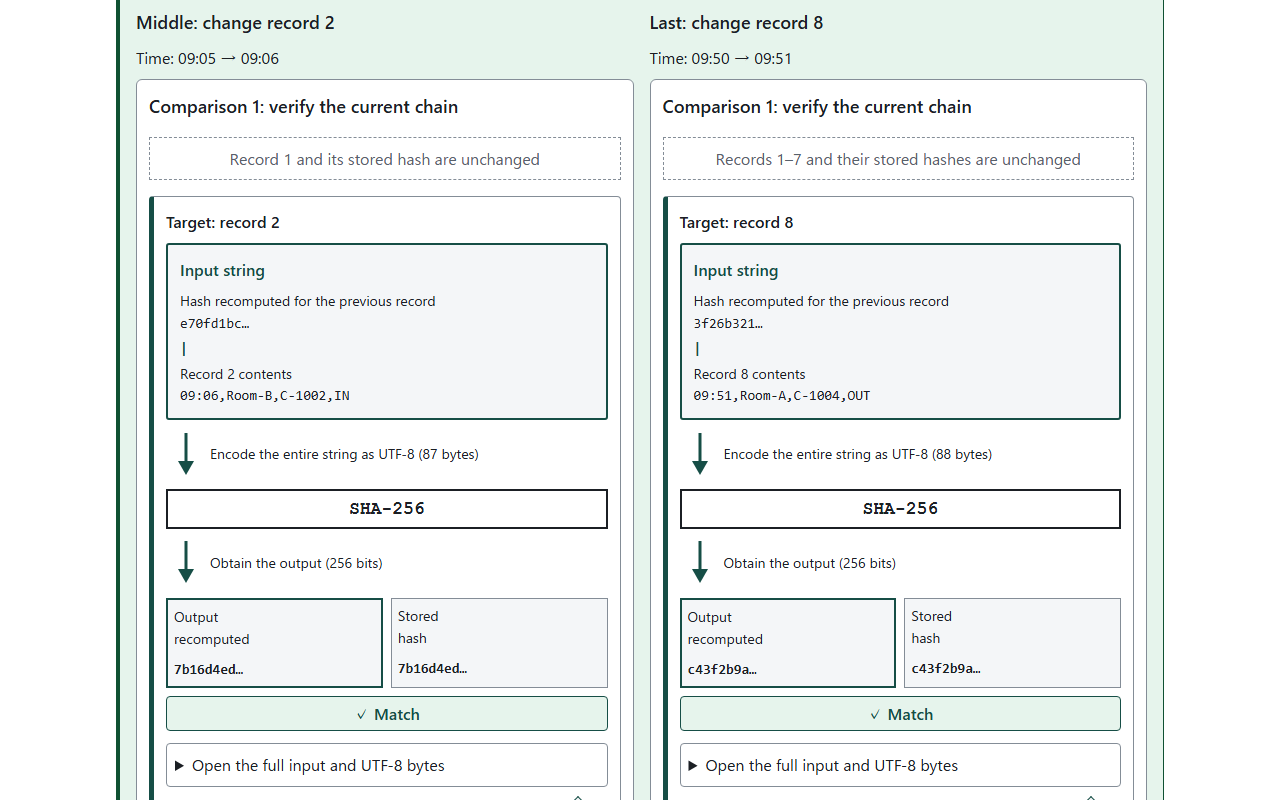
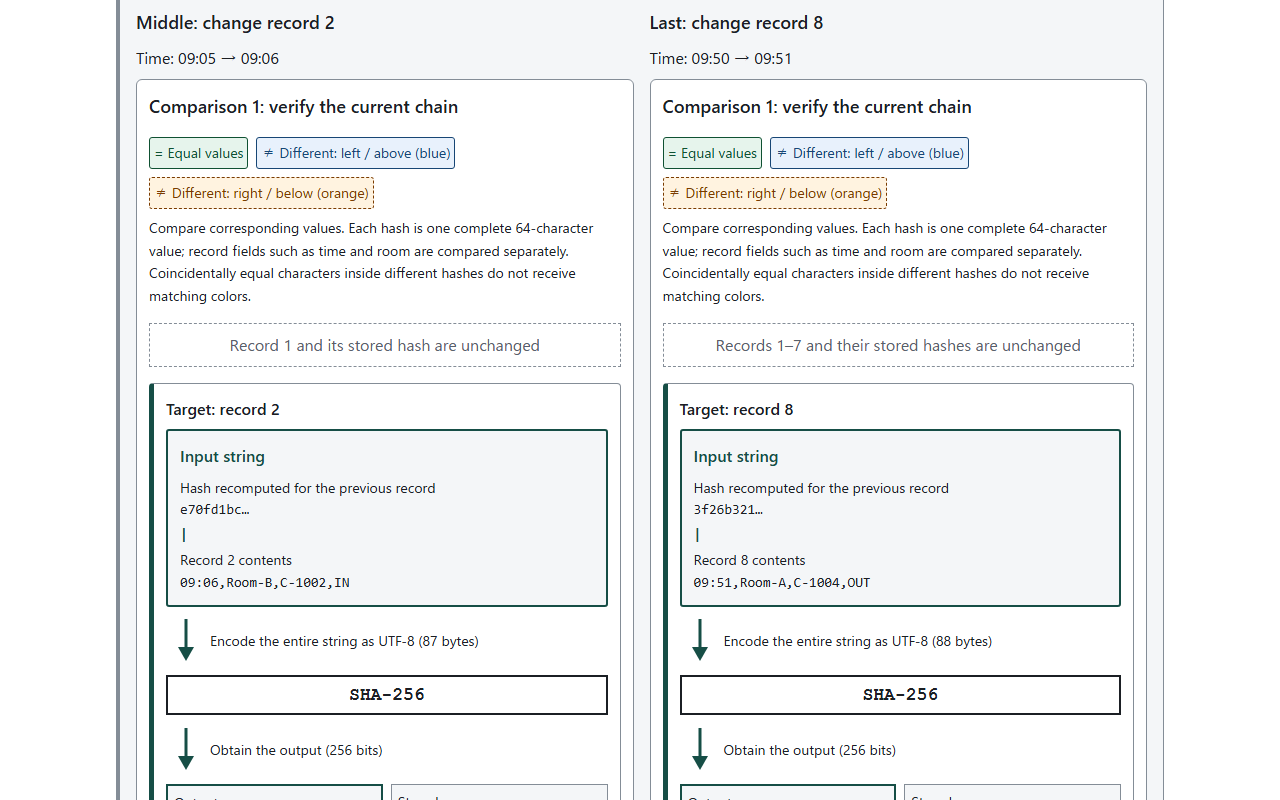
チェーン比較を値単位で色分けして対応を明示

diff --git a/app.js b/app.js
@@ -187,8 +187,10 @@
       }
       summary.append(fields, heads);
       details.append(summary, node('p', t(verification ? 'clarity.verificationInput' : 'input')), node('code', input, 'hash-input'));
-      if (verification) details.append(node('p', t('expected')), node('code', verification.expected, 'hash verification-hash'));
-      details.append(node('p', t('fullHash')), node('code', row.hash, 'hash stored-hash'));
+      if (verification) details.append(node('p', t('expected')), comparisonTone(node('code', verification.expected, 'hash verification-hash'), verification.expected, row.hash, 'first'));
+      const stored = node('code', row.hash, 'hash stored-hash');
+      if (verification) comparisonTone(stored, row.hash, verification.expected, 'second');
+      details.append(node('p', t('fullHash')), stored);
       li.append(details);
       list.append(li);
     });
@@ -549,6 +551,7 @@
       code.title = hash;
       code.dataset.hash = hash;
       cell.dataset.side = key;
+      comparisonTone(code, hash, key === 'stored' ? rightHash : leftHash, pair.childElementCount === 0 ? 'first' : 'second');
       cell.append(node('span', label), code);
       pair.append(cell);
     }
@@ -639,6 +642,7 @@
         node('p', t('position.time', {before:base.rows[index].fields[0], after:chain.rows[index].fields[0]}), 'position-time'));
       const figure = visualFigure('position.internal');
       figure.classList.add('position-flow');
+      figure.append(comparisonLegend());
       figure.append(node('p', t(last ? 'position.unchangedLast' : 'position.unchangedMiddle'), 'position-unchanged'),
         positionRecord(result.rows[index], chain.rows[index].fields, true));
       if (!last) {
@@ -665,12 +669,14 @@
         node('p', t('position.snapshotNote.' + position.stage)));
       const details = disclosure('position-detail-' + index, 'position.details', visualChainComparison(result, 'free'));
       const trailerDetails = node('div', undefined, 'position-trailer-detail');
+      const oldInput = core.trailerInput(base.rows[7].hash, 8);
+      const newInput = core.trailerInput(all.rows[7].expected, 8);
       trailerDetails.append(node('p', t('position.originalTrailerInput')),
-        node('code', core.trailerInput(base.rows[7].hash, 8), 'hash-input'),
+        comparisonInput(oldInput, newInput, 'first'),
         node('p', t('position.currentTrailerInput')),
-        node('code', core.trailerInput(all.rows[7].expected, 8), 'hash-input'),
-        visualCard(t('position.originalTrailer'), visualHash(all.trailer.actual)),
-        visualCard(t('position.recomputedTrailer'), visualHash(all.trailer.expected)),
+        comparisonInput(newInput, oldInput, 'second'),
+        comparisonTone(visualCard(t('position.originalTrailer'), visualHash(all.trailer.actual)), all.trailer.actual, all.trailer.expected, 'first'),
+        comparisonTone(visualCard(t('position.recomputedTrailer'), visualHash(all.trailer.expected)), all.trailer.expected, all.trailer.actual, 'second'),
         node('p', t(position.hasTrailer ? 'position.trailerUsed' : 'position.trailerNotUsed')));
       details.append(visualCard(t('position.originalHash'), visualHash(base.rows[index].hash)), trailerDetails);
       block.append(figure, snapshot, details);
@@ -1150,6 +1156,38 @@
     return card;
   }
 
+  // Compare complete values, never coincidentally equal characters within different hashes.
+  function comparisonTone(element, value, other, side) {
+    const tone = value === other ? 'same' : side;
+    element.classList.add('compare-value', 'compare-' + tone);
+    element.dataset.compareValue = value;
+    element.dataset.compareOther = other;
+    element.dataset.compareTone = tone;
+    return element;
+  }
+
+  function comparisonLegend() {
+    const legend = node('div', undefined, 'comparison-legend');
+    const keys = node('div', undefined, 'comparison-color-keys');
+    for (const tone of ['same', 'first', 'second']) keys.append(node('span', t('compare.color.' + tone), 'compare-value compare-' + tone));
+    legend.append(keys, node('p', t('compare.color.note')));
+    return legend;
+  }
+
+  function comparisonInput(input, other, side) {
+    const code = node('code', undefined, 'hash-input comparison-input');
+    const split = input.indexOf('|');
+    const otherSplit = other.indexOf('|');
+    code.append(comparisonTone(node('span', input.slice(0, split)), input.slice(0, split), other.slice(0, otherSplit), side), '|');
+    const fields = input.slice(split + 1).split(',');
+    const peers = other.slice(otherSplit + 1).split(',');
+    fields.forEach((field, i) => {
+      if (i) code.append(',');
+      code.append(comparisonTone(node('span', field), field, peers[i], side));
+    });
+    return code;
+  }
+
   function visualHash(hash) {
     const code = node('code', undefined, 'visual-hash');
     for (let i = 0; i < hash.length; i += 8) {
@@ -1210,6 +1248,7 @@
       for (const [cell, label, hash] of [[stored, 'compare.stored', row.actual], [recalculated, 'compare.recalculated', row.expected]]) {
         const value = node('code', shortHash(hash), 'comparison-hash');
         value.title = hash;
+        comparisonTone(cell, hash, cell === stored ? row.expected : row.actual, cell === stored ? 'first' : 'second');
         cell.append(node('span', t(label), 'comparison-cell-label'), value);
       }
       const status = node('div', undefined, 'comparison-status');
@@ -1219,13 +1258,13 @@
       const full = node('details', undefined, 'comparison-full');
       full.append(node('summary', t('compare.full', {n:row.number})));
       const pair = node('div', undefined, 'visual-grid');
-      pair.append(visualCard(t('compare.stored'), visualHash(row.actual)),
-        visualCard(t('compare.recalculated'), visualHash(row.expected)));
+      pair.append(comparisonTone(visualCard(t('compare.stored'), visualHash(row.actual)), row.actual, row.expected, 'first'),
+        comparisonTone(visualCard(t('compare.recalculated'), visualHash(row.expected)), row.expected, row.actual, 'second'));
       full.append(node('p', t('clarity.verificationInput')), node('code', row.input, 'hash-input'), pair);
       li.append(stored, status, recalculated, full);
       list.append(li);
     }
-    block.append(headings, list, node('p', t('compare.display'), 'muted'));
+    block.append(comparisonLegend(), headings, list, node('p', t('compare.display'), 'muted'));
     return block;
   }
 
@@ -1263,33 +1302,43 @@
       card.dataset.path = name;
       const prefix = node('code', shortHash(previous), 'propagation-prefix'); prefix.title = previous;
       const output = node('code', shortHash(hash), 'propagation-output'); output.title = hash;
+      const first = name === 'original';
+      const side = first ? 'first' : 'second';
+      const otherPrevious = first ? guide.results[2].rows[1].expected : guide.base.rows[1].hash;
+      const otherHash = first ? guide.results[2].rows[2].expected : guide.base.rows[2].hash;
+      comparisonTone(prefix, previous, otherPrevious, side);
+      comparisonTone(output, hash, otherHash, side);
+      const fields = guide.base.rows[2].fields.join(',');
+      const record = comparisonTone(node('code', fields, 'propagation-fields'), fields, fields, side);
       card.append(node('h4', t('clarity.' + name)), node('p', t('clarity.prefix')), prefix,
-        node('p', t('clarity.sameRecord')), node('code', guide.base.rows[2].fields.join(','), 'propagation-fields'),
+        node('p', t('clarity.sameRecord')), record,
         node('p', t('clarity.output3')), output);
       const input = core.hashInput(previous, guide.base.rows[2].fields);
       const full = node('details');
-      full.append(node('summary', t('visual.exact')), node('code', input, 'hash-input'));
+      full.append(node('summary', t('visual.exact')), comparisonInput(input, core.hashInput(otherPrevious, guide.base.rows[2].fields), side));
       card.append(full); grid.append(card);
     }
-    figure.append(grid, node('p', t('clarity.propagationNote'), 'visual-conclusion'));
+    figure.append(comparisonLegend(), grid, node('p', t('clarity.propagationNote'), 'visual-conclusion'));
     return figure;
   }
 
   function trailerComparison() {
     const pair = node('div', undefined, 'visual-grid trailer-comparison');
     const result = guide.results[5][1];
-    for (const [key, input, hash] of [
+    const variants = [
       ['clarity.trailerOriginal', core.trailerInput(core.tip(guide.base), guide.base.rows.length), result.trailer.actual],
       ['clarity.trailerCut', core.trailerInput(result.rows[result.rows.length - 1].expected, result.rows.length), result.trailer.expected]
-    ]) {
+    ];
+    for (const [i, [key, input, hash]] of variants.entries()) {
       const card = node('div', undefined, 'visual-card');
-      const value = node('code', undefined, 'hash-input');
-      const split = input.lastIndexOf('|');
-      value.append(input.slice(0, split), node('wbr'), node('strong', input.slice(split), 'observation-token'));
+      const side = i === 0 ? 'first' : 'second';
+      const peer = variants[1 - i];
+      const value = comparisonInput(input, peer[1], side);
       card.append(node('h4', t(key)), node('p', t('clarity.trailerInput')), value,
-        node('p', t('clarity.trailerHash')), visualHash(hash));
+        node('p', t('clarity.trailerHash')), comparisonTone(visualHash(hash), hash, peer[2], side));
       pair.append(card);
     }
+    pair.prepend(comparisonLegend());
     return pair;
   }
 
@@ -1334,8 +1383,11 @@
       const before = samples[0].rows[1];
       const after = guide.modified ? guide.modified.rows[1].fields : before.map((value, i) => i ? value : '09:06');
       const pair = node('div', undefined, 'visual-grid');
-      pair.append(visualCard(t('visual.recordBefore'), core.hashInput(guide.firstHash, before)),
-        visualCard(t('visual.recordAfter'), core.hashInput(guide.firstHash, after), t('visual.changeTime')));
+      const beforeInput = core.hashInput(guide.firstHash, before);
+      const afterInput = core.hashInput(guide.firstHash, after);
+      pair.append(visualCard(t('visual.recordBefore'), comparisonInput(beforeInput, afterInput, 'first')),
+        visualCard(t('visual.recordAfter'), comparisonInput(afterInput, beforeInput, 'second'), t('visual.changeTime')));
+      pair.prepend(comparisonLegend());
       figure.append(disclosure('guide-input-pair-' + step, 'clarity.inputs', pair));
       const result = guide.results[step];
       if (!result) {
@@ -1585,12 +1637,11 @@
         const after = guide.results[2].rows[1].expected;
         for (const [label,hash] of [[t('guide.before'),before],[t('guide.after'),after]]) {
           const block = node('div');
-          const code = node('code',undefined,'avalanche');
-          Array.from(hash).forEach((digit,i) => code.append(node('span',digit,before[i] !== after[i] ? 'changed-digit' : '')));
+          const code = comparisonTone(visualHash(hash), hash, hash === before ? after : before, comparison.childElementCount === 0 ? 'first' : 'second');
           block.append(node('p',label), code);
           comparison.append(block);
         }
-        output.append(comparison,node('p', t('guide.changedDigits', {n:Array.from(before).filter((digit,i) => digit !== after[i]).length})));
+        output.append(comparisonLegend(),comparison,node('p', t('guide.changedDigits', {n:Array.from(before).filter((digit,i) => digit !== after[i]).length})));
       }
       const rows = node('div');
       renderChain(rows, step === 2 ? guide.modified : guide.single, guide.results[step]);

diff --git a/messages.js b/messages.js
@@ -444,7 +444,7 @@
     "guide.oneCharacter": "記録2の時刻を「09:05」から「09:06」へ1文字変えました。",
     "guide.before": "元のハッシュ",
     "guide.after": "変更後に計算したハッシュ",
-    "guide.changedDigits": "64桁のうち{n}桁が変わりました。色と下線のある桁が変更部分です。",
+    "guide.changedDigits": "64桁のうち{n}桁が変わりました。色はハッシュ全体で分けています。偶然同じ文字になった桁も、同じ色にはしていません。",
     "guide.core": "書き換えた記録に合わせて、後ろのハッシュとトレーラーも作り直すと、すべての比較が一致します。\n\n元の記録から変わっていないかを調べるには、改変する人が置き換えられない控えなどと比べる必要があります。",
     "guide.withoutTrailer": "トレーラーなし",
     "guide.withTrailer": "トレーラーあり",
@@ -623,6 +623,10 @@
     "compare.stored": "付けてあるハッシュ",
     "compare.recalculated": "再計算したハッシュ",
     "compare.full": "記録{n}のハッシュ64文字を比較",
+    "compare.color.same": "＝ 同じ値",
+    "compare.color.first": "≠ 異なる値：左・上（青）",
+    "compare.color.second": "≠ 異なる値：右・下（橙）",
+    "compare.color.note": "対応する値を比較します。ハッシュは64文字全体、記録は時刻・部屋などの項目ごとに色を付けます。異なるハッシュの中で偶然一致した文字は、同じ色にしません。",
     "compare.display": "一覧は先頭8文字と「…」で表示します。一致・不一致は64文字すべてを比較した結果です。各記録を開くと、両方の全文を読めます。",
     "visual.display.title": "省略した表示と、計算に使う全文を見比べる",
     "visual.display.short": "画面で見せる先頭8文字",
@@ -1289,7 +1293,7 @@
     "guide.oneCharacter": "One character in record 2 changed: 09:05 to 09:06.",
     "guide.before": "Original hash",
     "guide.after": "Hash computed after the change",
-    "guide.changedDigits": "{n} of 64 digits changed. Color and underlines identify those digits.",
+    "guide.changedDigits": "{n} of 64 digits changed. Color distinguishes the whole hashes; coincidentally equal digits do not receive matching colors.",
     "guide.core": "Rebuilding every subsequent hash makes verification pass.\n\nA hash chain alone does not prove that records are authentic.",
     "guide.withoutTrailer": "Without a trailer",
     "guide.withTrailer": "With a trailer",
@@ -1468,6 +1472,10 @@
     "compare.stored": "Stored hash",
     "compare.recalculated": "Recalculated hash",
     "compare.full": "Compare all 64 hash characters for record {n}",
+    "compare.color.same": "= Equal values",
+    "compare.color.first": "≠ Different: left / above (blue)",
+    "compare.color.second": "≠ Different: right / below (orange)",
+    "compare.color.note": "Compare corresponding values. Each hash is one complete 64-character value; record fields such as time and room are compared separately. Coincidentally equal characters inside different hashes do not receive matching colors.",
     "compare.display": "The overview shows the first eight characters and an ellipsis. Match or mismatch is based on all 64 characters. Expand a record to read both complete hashes.",
     "visual.display.title": "Compare the short display with the full value used in calculations",
     "visual.display.short": "First 8 characters shown on screen",

diff --git a/style.css b/style.css
@@ -15,6 +15,8 @@
   --ok-bg: #e6f4ec;
   --cover-fg: #ffffff;
   --cover-bg: #1b1f24;
+  --compare-first-fg: #174675;
+  --compare-first-bg: #e8f1fc;
 }
 
 *, *::before, *::after {
@@ -141,6 +143,8 @@ label {
     --ok-bg: #10301f;
     --cover-fg: #0f1419;
     --cover-bg: #a3adb8;
+    --compare-first-fg: #bfdcff;
+    --compare-first-bg: #152c46;
   }
 }
 
@@ -357,7 +361,6 @@ progress { flex: 1; min-width: 0; height: 0.75rem; accent-color: var(--accent); 
 .comparison h3 { margin-block: 0.25rem; }
 .core-message { font-size: 1.25rem; line-height: 1.6; font-weight: 700; padding: 1rem; border: 2px solid var(--accent); }
 .avalanche { display: block; overflow-wrap: anywhere; background: var(--surface); padding: 0.75rem; }
-.changed-digit { color: var(--warn-fg); background: var(--warn-bg); text-decoration: underline; text-decoration-thickness: 2px; font-weight: 700; }
 .check-options { display: flex; flex-wrap: wrap; gap: 0.5rem 1rem; margin-block: 1rem; }
 .check-option { display: flex; gap: 0.5rem; align-items: center; min-width: 44px; min-height: 44px; padding: 0.4rem 0.5rem; border: 1px solid var(--border); border-radius: 4px; cursor: pointer; }
 @media (min-width: 760px) {
@@ -589,4 +592,20 @@ legend { max-width: 100%; }
   .data-flow { grid-template-columns: minmax(0, 1fr) 5rem minmax(0, 1.25fr) 5rem minmax(0, 1fr); align-items: stretch; }
   .data-flow .position-connector { flex-direction: column; text-align: center; gap: 0.25rem; padding-inline: 0.2rem; }
   .data-flow .position-arrow { transform: rotate(-90deg); flex-basis: auto; }
+}
+
+/* Equality is defined by the entire hash or record field, not individual characters. */
+.comparison-legend { grid-column: 1 / -1; margin-block: 0.75rem; font-size: 0.875rem; }
+.comparison-color-keys { display: flex; flex-wrap: wrap; gap: 0.5rem; }
+.comparison-legend p { margin-block: 0.5rem; }
+.compare-value.compare-same { color: var(--ok-fg); background: var(--ok-bg); border: 1px solid var(--ok-fg); }
+.compare-value.compare-first { color: var(--compare-first-fg); background: var(--compare-first-bg); border: 1px solid var(--compare-first-fg); }
+.compare-value.compare-second { color: var(--warn-fg); background: var(--warn-bg); border: 1px dashed var(--warn-fg); }
+code.compare-value, .comparison-color-keys .compare-value { padding: 0.25rem; border-radius: 3px; }
+.comparison-input { line-height: 2; }
+.comparison-input .compare-value { padding-block: 0.1rem; border-radius: 2px; box-decoration-break: clone; -webkit-box-decoration-break: clone; }
+.compare-value .visual-label, .compare-value .visual-hash, .compare-value .visual-hash strong, .visual-hash.compare-value strong { color: inherit; }
+.compare-value .visual-hash strong, .visual-hash.compare-value strong { text-decoration: none; }
+@media (forced-colors: active) {
+  .compare-value.compare-second { border-style: dashed; }
 }

diff --git a/README.en.md b/README.en.md
@@ -38,7 +38,7 @@ Download the files and open `index.html` in a browser to use it over file://. No
 
 ![Comparing middle and last records](assets/en/position.png)
 
-*Step 3 connects input, UTF-8 encoding, SHA-256 and output, then compares the output with the stored hash.*
+*Step 3 connects input, UTF-8 encoding, SHA-256 and output, then compares the output with the stored hash. Equal values share green; different values use blue on the left or above and orange on the right or below. Each hash is compared as one complete 64-character value, without highlighting coincidentally equal characters. Input comparisons distinguish the previous hash and each record field.*
 
 ## ✨ Features
 
